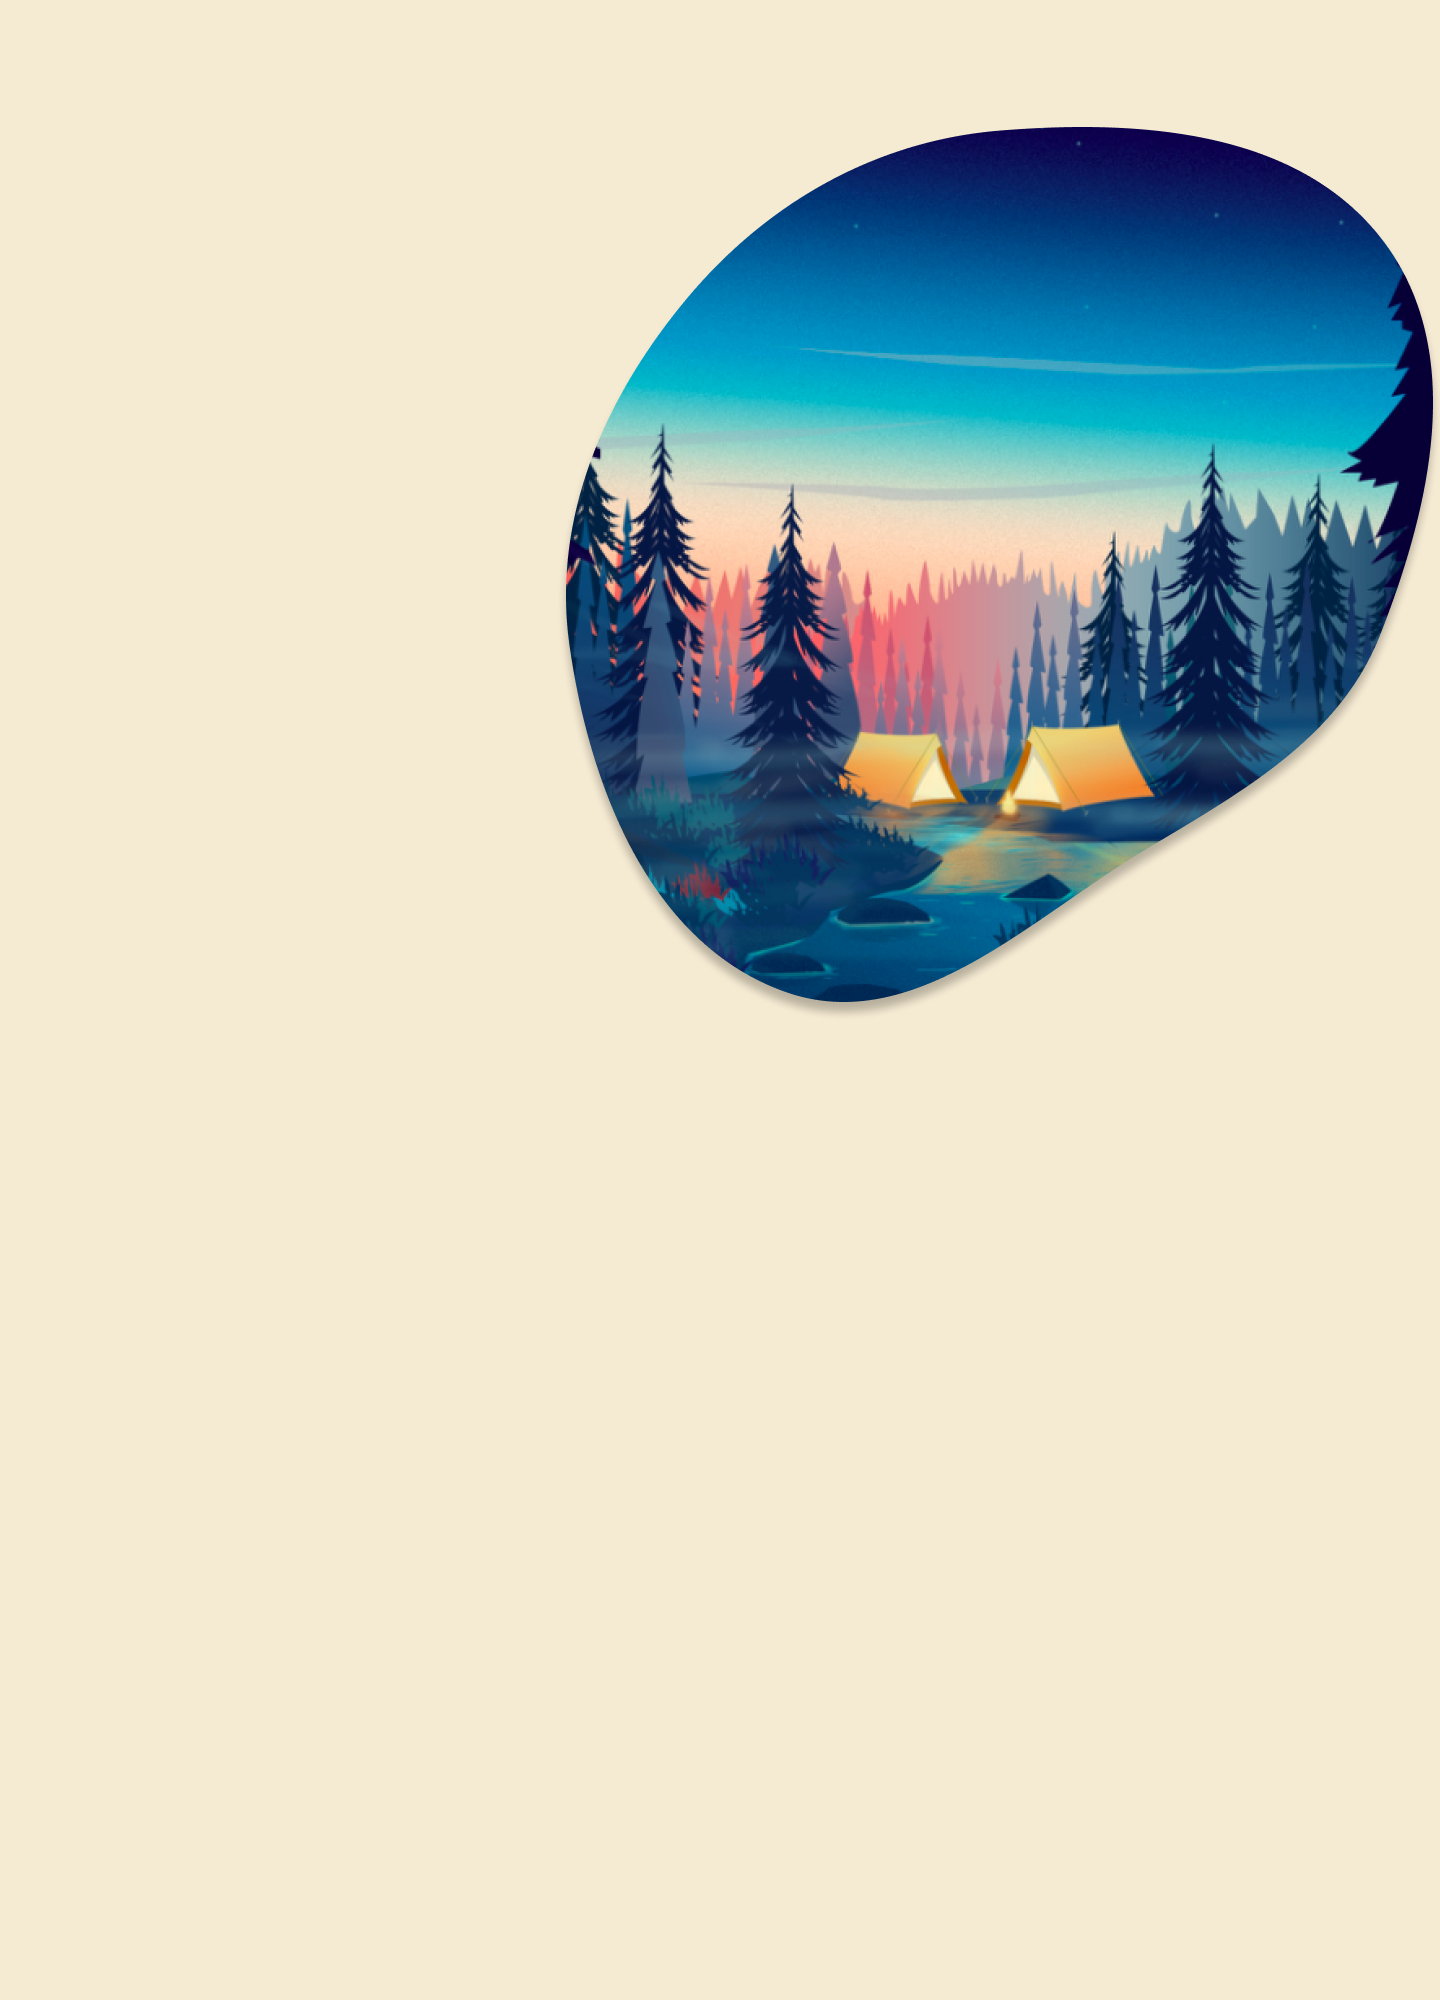
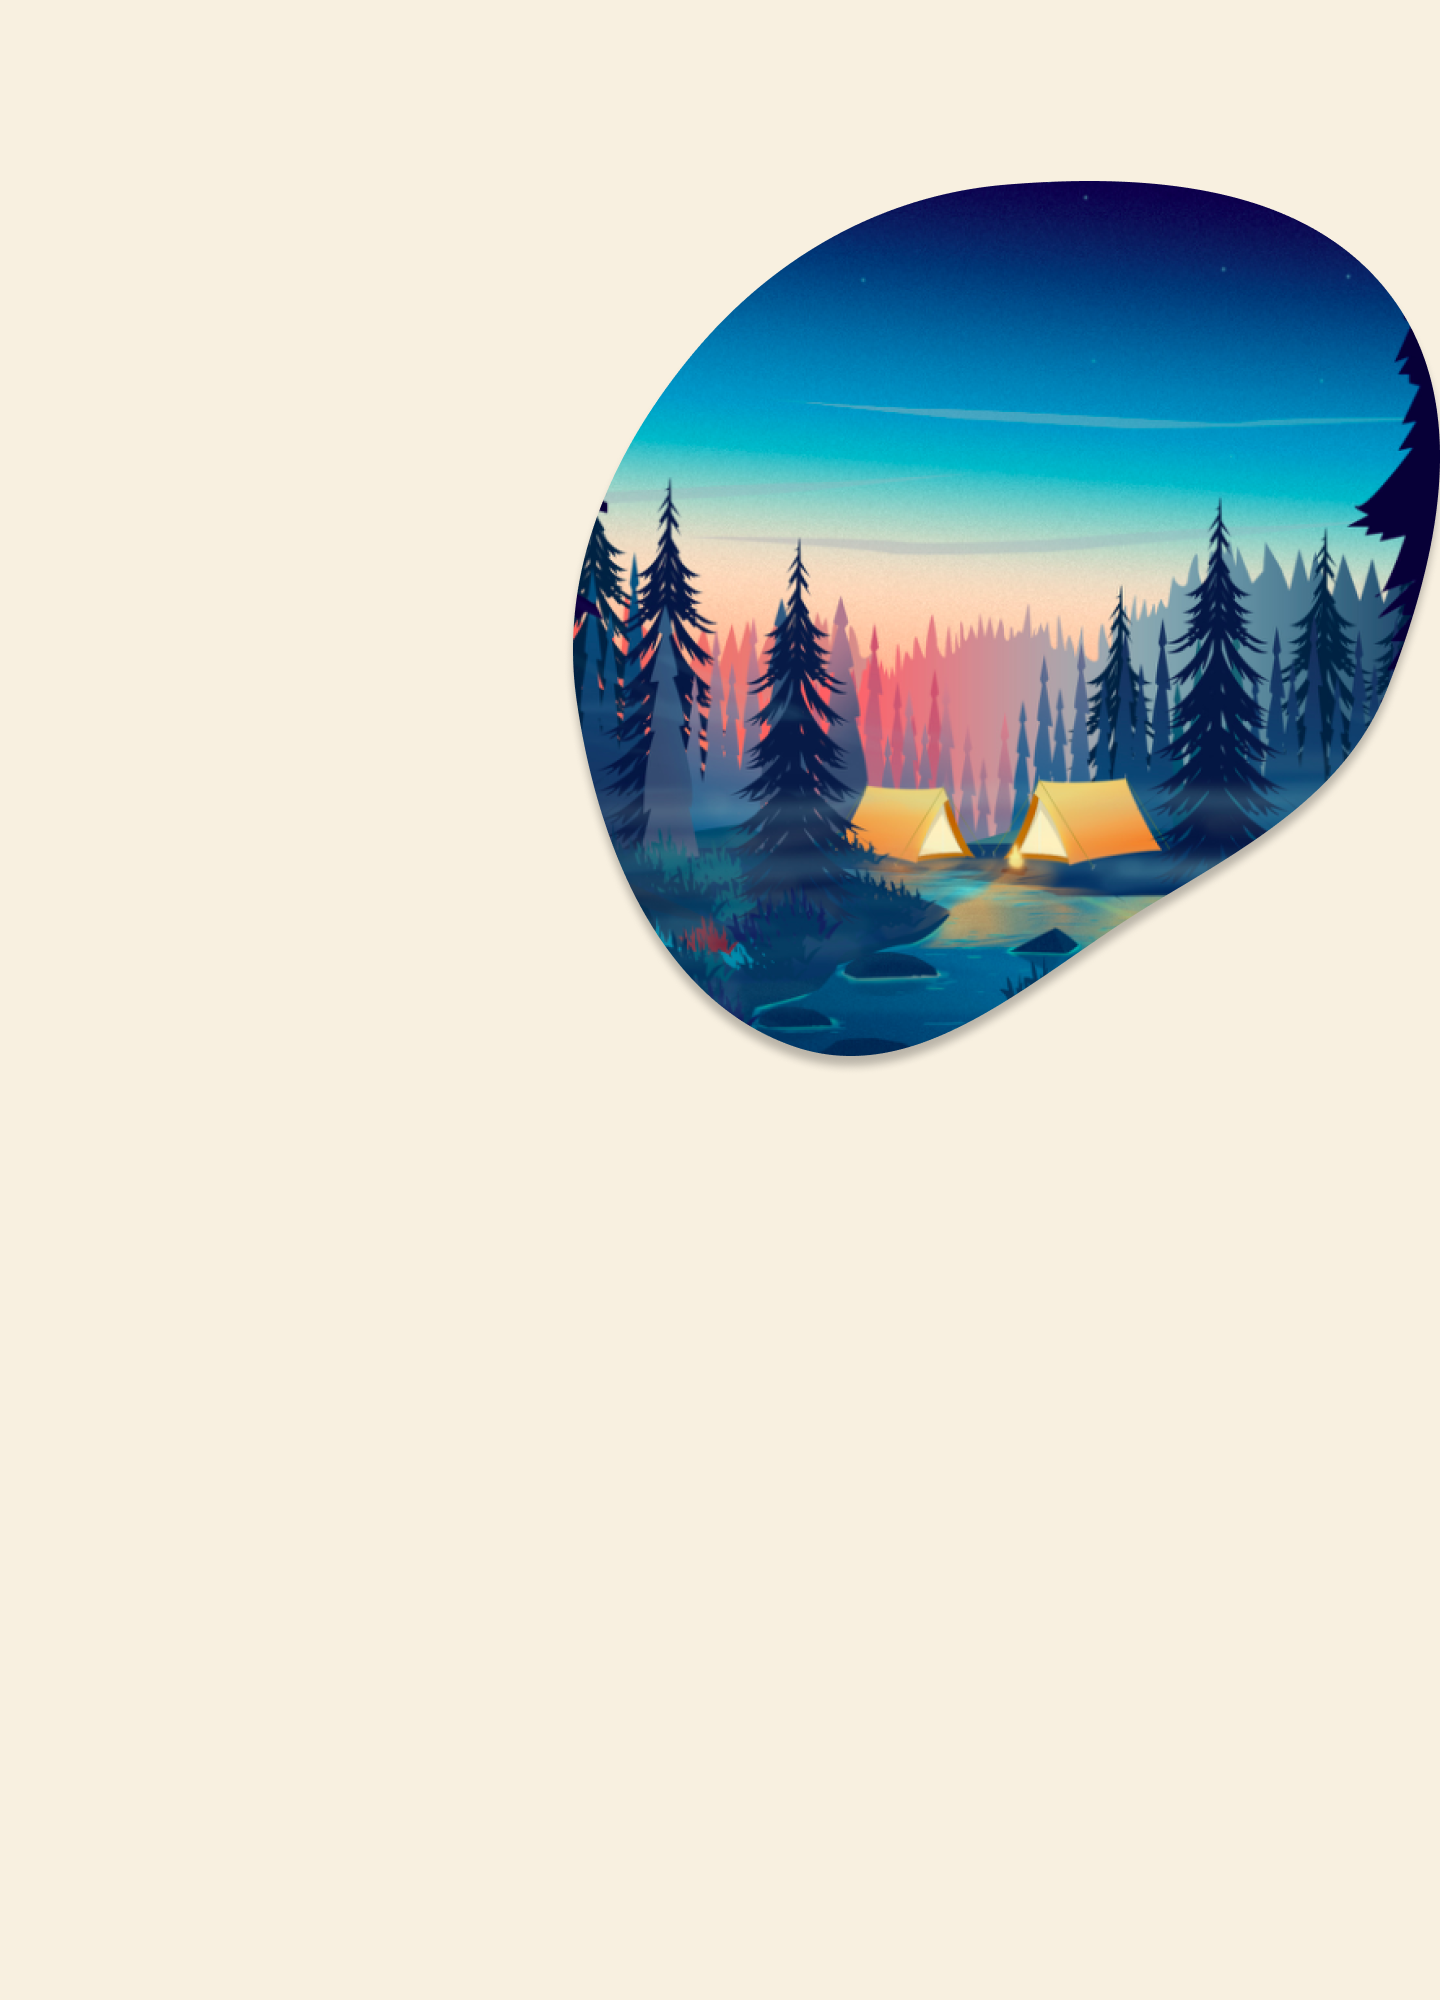
adjusted card button & background colours

Changed region(s): [[0.375, 0.062, 1.0, 0.558]]

diff --git a/app/assets/stylesheets/components/_modal.scss b/app/assets/stylesheets/components/_modal.scss
@@ -17,8 +17,21 @@
     color: #00363D;
 }
 
+.btn-modal {
+  color: white;
+  padding: 8px 24px;
+  border-radius: 4px;
+  background: #2BBBAD;
+  transition: background 0.3s ease;
+}
+
+.btn-modal:hover {
+  background: #27a89c;
+  color: white;
+}
+
 .checkbox-form {
-    background: #F5EAD2;
+    background: #F8F0E0;
     color: #00363D;
     margin-top: 10px;
     cursor: pointer;

diff --git a/app/assets/stylesheets/components/_cards.scss b/app/assets/stylesheets/components/_cards.scss
@@ -10,6 +10,16 @@
   border-radius: 8px 8px 0px 0px;
 }
 
+.small-garden-card-btn {
+  color: white;
+  padding: 8px 24px;
+  border-radius: 4px;
+  background: #2BBBAD;
+  transition: background 0.3s ease;
+  text-decoration: none;
+  text-align: center;
+}
+
 .large-garden-card {
   border-radius: 8px 0px 0px 8px;
 }

diff --git a/app/assets/stylesheets/components/_button.scss b/app/assets/stylesheets/components/_button.scss
@@ -1,0 +1,13 @@
+.btn-search {
+  color: white;
+  padding: 8px 24px;
+  border-radius: 4px;
+  background: #2BBBAD;
+  transition: background 0.3s ease;
+}
+
+.btn-search:hover {
+  background: #27a89c;
+  color: white;
+}
+

diff --git a/app/assets/stylesheets/application.scss b/app/assets/stylesheets/application.scss
@@ -17,6 +17,6 @@
 
 body {
   padding-top: 50px;
-  background: #F5EAD2;
+  background: #F8F0E0;
   color: #00363D
 }
